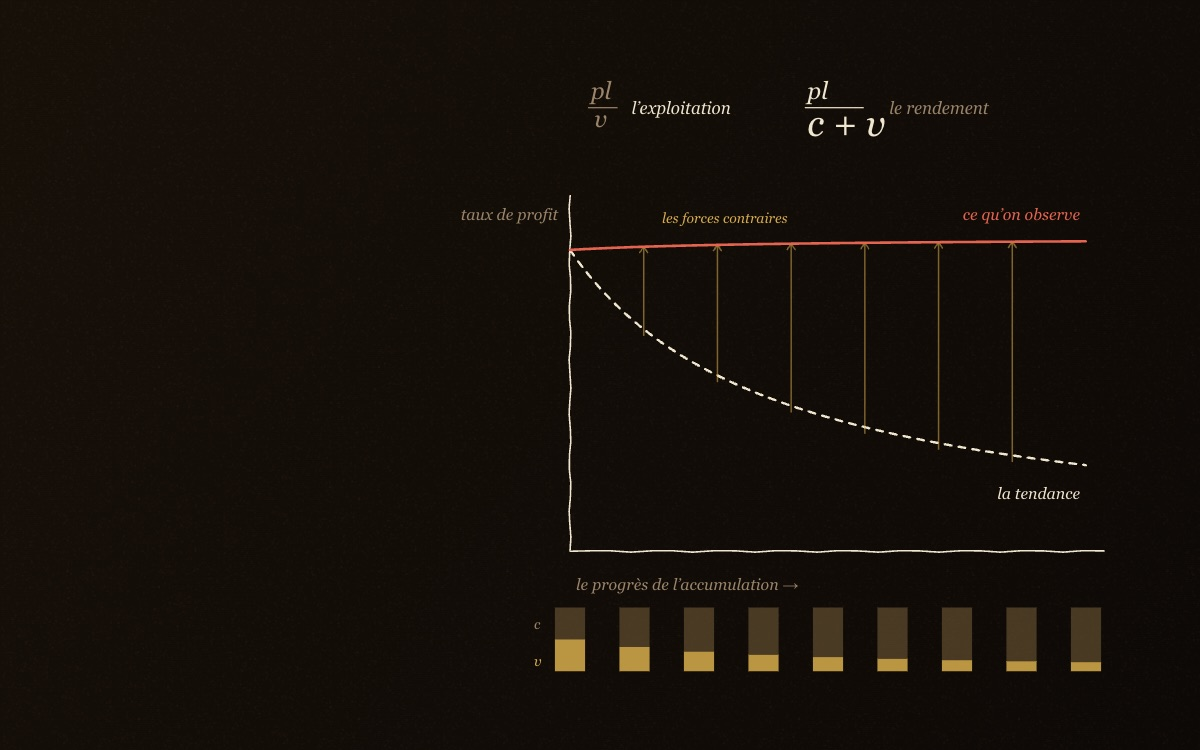
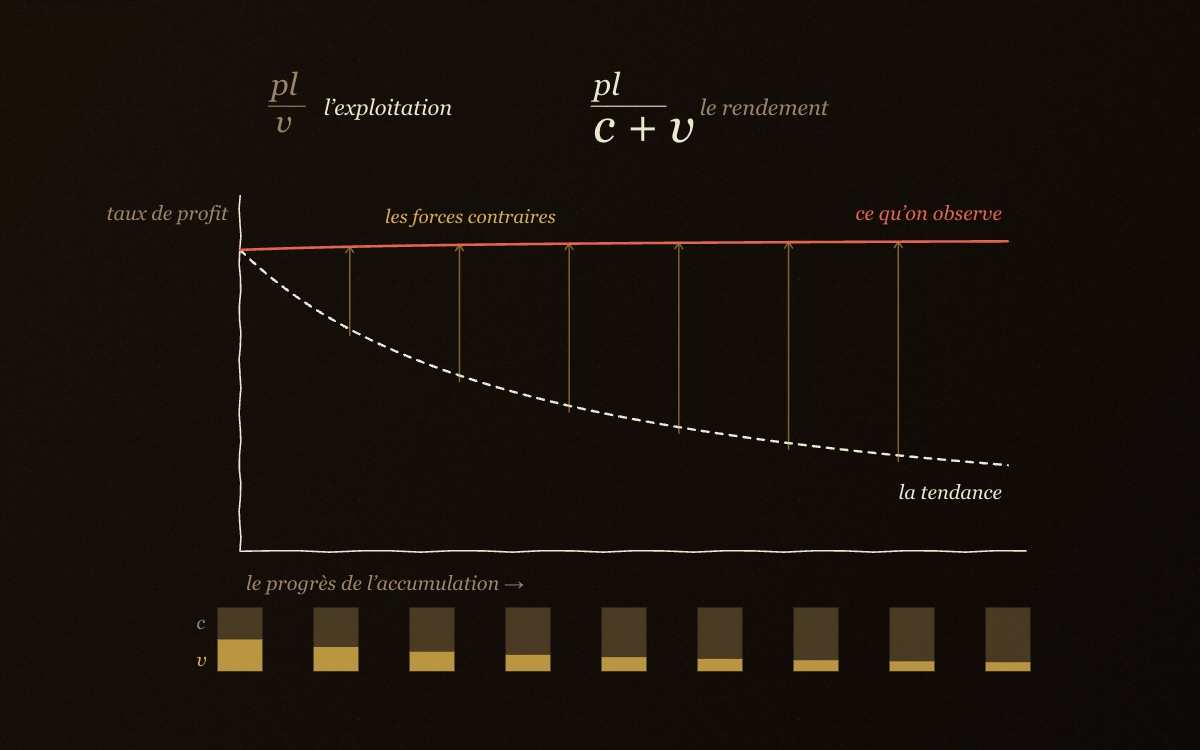
Glossaire : loi-tendancielle réécrite selon la charte, direction artistique « la machine de fer »

diff --git a/glossaire/mondes/loi-tendancielle/essai.html b/glossaire/mondes/loi-tendancielle/essai.html
@@ -1,52 +1,86 @@
-<!-- L'ESSAI — le corps de /glossaire/loi-tendancielle.
+<!-- L'ESSAI : le corps de /glossaire/loi-tendancielle.
+     Réécrit en octobre 2026 selon glossaire/mondes/CHARTE.md.
      ⚠ La loi est exposée au LIVRE III, que ce site NE SERT PAS : ses
-     citations ne seraient vérifiables nulle part, et la règle du dossier est
-     que toute citation mène au passage. Le Livre III est donc PARAPHRASÉ,
-     sans guillemets, avec le renvoi au chapitre. Les citations liées
-     (data-s="7" = Septième section de Roy, ch. XXIII-XXV) portent sur la
-     PRÉMISSE — la composition du capital et son mouvement —, qui est bien
-     dans le Livre I. -->
+     phrases ne seraient vérifiables nulle part, et toute citation liée doit
+     mener au passage. Le Livre III est donc PARAPHRASÉ et situé, jamais
+     cité entre guillemets. Les citations liées viennent toutes du Livre I :
+     data-s="3" = troisième section de Roy (ch. IX, le taux de la
+     plus-value) ; data-s="4" = quatrième section (ch. XV, la machine) ;
+     data-s="5" = cinquième section (ch. XVII, où Marx annonce le Livre III) ;
+     data-s="7" = septième section (ch. XXV, la composition du capital).
+     Chaque data-q est relevé dans le texte que la liseuse sert, au
+     caractère près (apostrophe typographique comprise). -->
 
 <section class="nt-sec" data-etape="enonce" id="enonce">
-<h2>Une baisse qui vient du progrès</h2>
-<p>La loi tendancielle de la baisse du taux de profit est la proposition la plus discutée de toute l'œuvre, et il faut commencer par dire exactement ce qu'elle énonce, parce que la plupart des objections qu'on lui oppose portent sur autre chose. Elle dit ceci&nbsp;: à mesure que la productivité s'élève, la part du capital investie en machines et en matières croît plus vite que celle qui paie le travail&nbsp;; or seul le travail vivant produit de la <a href="/glossaire/plus-value">plus-value</a>&nbsp;; si donc le taux d'exploitation demeure constant, le profit rapporté au capital total avancé décroît.</p>
-<p>L'énoncé a ceci de contre-intuitif qu'il fait de la baisse un effet du progrès, et non de la stagnation. Ce ne sont ni la concurrence, ni les salaires trop élevés, ni les mauvaises récoltes qui font tomber le taux&nbsp;: c'est le succès même de l'accumulation. Chaque perfectionnement qui permet à un ouvrier de mettre en œuvre plus de matière et plus de machines augmente la masse produite et diminue, relativement, la source d'où le profit provient. Marx tient cette conclusion pour le grand paradoxe de l'économie politique, et il lui reproche de l'avoir pressenti sans pouvoir l'expliquer, faute d'avoir distingué le taux de plus-value du taux de profit.</p>
-<p>Nous devons dire d'emblée ce que cette page ne fera pas. La loi est exposée au Livre&nbsp;III, dans les manuscrits que Marx a laissés inachevés et qu'Engels a publiés en 1894&nbsp;; ce site ne sert que le Livre&nbsp;I, dans la traduction de Roy. Nous ne citerons donc pas le Livre&nbsp;III entre guillemets, puisque nous ne pouvons pas conduire le lecteur au passage&nbsp;: nous le paraphraserons en le situant. Les citations liées qui suivent portent toutes sur la prémisse — le mouvement de la composition du capital —, laquelle est bien dans le Livre&nbsp;I.</p>
+<h2>Que dit au juste la loi tendancielle&nbsp;?</h2>
+<p class="nt-lead">Que le taux de profit, c'est-à-dire le profit rapporté à tout le capital avancé, tend à baisser à mesure que la productivité du travail s'élève. La baisse vient du succès même de l'accumulation.</p>
+<p>La loi tendancielle de la baisse du taux de profit est sans doute la proposition de Marx qu'on a le plus discutée, et beaucoup d'objections portent sur autre chose que ce qu'elle énonce. Il faut donc commencer par l'énoncé. À mesure que la productivité s'élève, la part du capital dépensée en machines et en matières grandit plus vite que la part qui paie les salaires. Or seul le travail vivant, celui des ouvriers employés, produit de la <a href="/glossaire/plus-value">plus-value</a>. Si le degré d'exploitation reste le même, la plus-value rapportée au capital total diminue&nbsp;: le taux de profit baisse.</p>
+<p>L'énoncé surprend parce qu'il fait de la baisse un effet du progrès. Ni la concurrence ni des salaires trop élevés n'y sont pour rien. Chaque perfectionnement qui permet à un ouvrier de mettre en œuvre plus de matière et plus de machines augmente la masse produite et réduit, en proportion, la source d'où vient le profit. Les économistes classiques avaient constaté que le taux de profit avait tendance à baisser. Adam Smith l'expliquait par la concurrence des capitaux, David Ricardo par la hausse du prix du blé, qui renchérit les salaires. Marx leur reproche de chercher la cause hors de l'accumulation, faute d'avoir distingué deux taux qu'on verra plus loin.</p>
+<p>Une précaution s'impose d'emblée. La loi est exposée au Livre&nbsp;III du <i>Capital</i>, troisième section, dans des manuscrits que Marx a laissés inachevés et qu'Engels a publiés en 1894. Ce site ne sert que le Livre&nbsp;I, dans la traduction de Roy. Le Livre&nbsp;III est donc résumé et situé, sans guillemets, puisqu'on ne pourrait pas conduire le lecteur au passage. Les citations qui suivent viennent toutes du Livre&nbsp;I, où se trouvent la prémisse de la loi et même son annonce.</p>
 </section>
 
 <section class="nt-sec" data-etape="premisse" id="premisse">
-<h2>La prémisse est au Livre I&nbsp;: la composition du capital</h2>
-<p>Tout repose sur une grandeur que le chapitre XXV introduit avec beaucoup de soin, et dont la définition mérite d'être lue lentement. Le capital se laisse considérer sous deux rapports&nbsp;: du côté de la valeur, il se divise en une partie constante — les moyens de production — et une partie variable — ce qui paie la force de travail&nbsp;; du côté de la technique, il se divise en une masse de moyens de production et une quantité de travail pour les mettre en œuvre. Marx noue les deux&nbsp;:</p>
+<h2>Sur quoi la loi repose-t-elle dans le Livre&nbsp;I&nbsp;?</h2>
+<p class="nt-lead">Sur le mouvement de la composition du capital. Avec l'accumulation, la part dépensée en moyens de production croît plus vite que la part qui paie la force de travail.</p>
+<p>Deux mots d'abord. Le capital constant est la partie du capital dépensée en moyens de production&nbsp;: bâtiments, machines, matières. Sa valeur passe dans le produit sans grandir. Le capital variable est la partie qui achète la force de travail, et c'est la seule qui rapporte plus qu'elle ne coûte. Le chapitre XV montre ce que la machine fait à ce partage&nbsp;: elle <q data-s="4" data-q="Elle transforme en machines, en élément constant qui ne rend point de plus-value, une partie du capital qui était variable auparavant">transforme en machines, en élément constant qui ne rend point de plus-value, une partie du capital qui était variable auparavant</q>. Le rapport entre les deux parties, Marx le nomme au chapitre XXV&nbsp;:</p>
 <blockquote data-s="7" data-q="nous appellerons composition organique du capital sa composition-valeur, en tant qu’elle dépend de sa composition technique"><p>[…] nous appellerons composition organique du capital sa composition-valeur, en tant qu’elle dépend de sa composition technique, et que, par conséquent, les changements survenus dans l’une reflètent les changements survenus dans l’autre.</p></blockquote>
-<p>Ce qui importe pour notre loi, c'est le sens dans lequel cette composition se déplace. Marx en fait <q data-s="7" data-q="la composition du capital et les changements qu’elle subit dans le progrès de l’accumulation">la composition du capital et les changements qu'elle subit dans le progrès de l'accumulation</q> la donnée décisive de tout le chapitre, et il établit que l'accumulation, en développant la productivité, fait croître la partie constante plus vite que la variable — <q data-s="7" data-q="le décroissement de la partie variable du capital par rapport à sa partie constante">le décroissement de la partie variable du capital par rapport à sa partie constante</q>.</p>
-<p>Une précision est ici indispensable, et son absence est la source de la moitié des malentendus&nbsp;: la partie variable ne diminue pas, elle diminue <i>relativement</i>. <q data-s="7" data-q="le progrès de l’accumulation, en faisant décroître la grandeur relative du capital variable, n’en exclut point l’accroissement absolu">Le progrès de l'accumulation, en faisant décroître la grandeur relative du capital variable, n'en exclut point l'accroissement absolu</q>&nbsp;: le nombre d'ouvriers employés peut monter, et monte en fait, pendant que leur part dans le capital total baisse. <q data-s="7" data-q="Il augmente avec le capital social dont il fait partie, mais il augmente en proportion décroissante">Il augmente avec le capital social dont il fait partie, mais il augmente en proportion décroissante</q>. La loi du Livre&nbsp;III ne fait qu'ajouter une division à ce mouvement-là.</p>
+<p>Ce qui compte pour la loi, c'est le sens du mouvement. Le chapitre XXV fait de <q data-s="7" data-q="la composition du capital et les changements qu’elle subit dans le progrès de l’accumulation">la composition du capital et les changements qu’elle subit dans le progrès de l’accumulation</q> sa donnée principale, et il établit que l'accumulation, en développant la productivité, entraîne <q data-s="7" data-q="le décroissement de la partie variable du capital par rapport à sa partie constante">le décroissement de la partie variable du capital par rapport à sa partie constante</q>. La page sur la <a href="/glossaire/composition-organique">composition organique</a> suit ce mouvement en détail.</p>
+<p>Le mot «&nbsp;par rapport&nbsp;» est à prendre au sérieux. La partie variable diminue relativement, pas forcément en quantité&nbsp;: <q data-s="7" data-q="le progrès de l’accumulation, en faisant décroître la grandeur relative du capital variable, n’en exclut point l’accroissement absolu">le progrès de l’accumulation, en faisant décroître la grandeur relative du capital variable, n’en exclut point l’accroissement absolu</q>. Le nombre d'ouvriers employés peut monter pendant que leur part dans le capital total baisse. Marx le dit encore plus simplement&nbsp;: <q data-s="7" data-q="Il augmente avec le capital social dont il fait partie, mais il augmente en proportion décroissante">il augmente avec le capital social dont il fait partie, mais il augmente en proportion décroissante</q>. La loi du Livre&nbsp;III ne fait qu'ajouter une division à ce mouvement.</p>
 </section>
 
 <section class="nt-sec" data-etape="distinction" id="distinction">
-<h2>La distinction qui fait le concept&nbsp;: deux taux, et non un</h2>
-<p>Toute la loi tient dans l'écart entre deux rapports que le langage courant confond, et qui n'ont ni le même dénominateur ni le même sens. Le <b>taux de plus-value</b> rapporte la plus-value au seul capital variable&nbsp;: <i>pl/v</i>. Il mesure l'exploitation, c'est-à-dire la manière dont la journée se partage, et il est la grandeur du Livre&nbsp;I. Le <b>taux de profit</b> rapporte la même plus-value au capital total avancé, constant compris&nbsp;: <i>pl/(c+v)</i>. Il mesure le rendement d'une avance, et c'est la grandeur sous laquelle le capitaliste voit son affaire.</p>
-<p>Le second est toujours inférieur au premier, puisqu'il a le même numérateur et un dénominateur plus grand. Mais le point n'est pas là&nbsp;: il est que les deux peuvent varier <i>en sens contraire</i>. Si <i>c</i> croît assez vite, <i>pl/(c+v)</i> baisse alors même que <i>pl/v</i> monte — l'exploitation s'intensifie et la rentabilité décline. C'est cette possibilité qui fait le concept, et c'est elle que l'économie classique ne pouvait pas formuler&nbsp;: n'ayant pas séparé les deux taux, elle attribuait la baisse observée à la concurrence ou à la pression des salaires, c'est-à-dire à des causes extérieures au mouvement de l'accumulation.</p>
-<p>On mesure alors ce que la distinction change dans la lecture du capitalisme. Le taux de profit n'est pas un thermomètre de l'exploitation&nbsp;: on ne peut rien conclure du second sur la première. Une baisse du taux de profit ne dit pas que les travailleurs sont mieux traités, et une hausse ne dit pas qu'ils le sont moins.</p>
+<h2>Pourquoi faut-il distinguer deux taux&nbsp;?</h2>
+<p class="nt-lead">Parce que le taux de plus-value mesure l'exploitation, et le taux de profit le rendement du capital avancé. Ils ont le même numérateur, pas le même dénominateur, et ils peuvent varier en sens contraire.</p>
+<p>Le taux de plus-value rapporte la plus-value au seul capital variable&nbsp;: <i>pl/v</i>. Il dit comment se partage la journée de travail entre le temps où l'ouvrier reproduit son salaire et le temps où il travaille gratuitement. Au chapitre IX, Marx le définit ainsi&nbsp;: <q data-s="3" data-q="Le taux de la plus-value est donc l’expression exacte du degré d’exploitation de la force de travail par le capital ou du travailleur par le capitaliste">le taux de la plus-value est donc l’expression exacte du degré d’exploitation de la force de travail par le capital ou du travailleur par le capitaliste</q>. Le taux de profit rapporte la même plus-value au capital total, constant compris&nbsp;: <i>pl/(c+v)</i>. C'est la grandeur sous laquelle le capitaliste voit son affaire, puisqu'il compte tout ce qu'il a avancé.</p>
+<p>Le Livre&nbsp;I pose déjà la distinction. Au chapitre XVII, Marx rappelle que <q data-s="5" data-q="le taux du profit est la proportion de la plus-value avec le total du capital avancé, tandis que le taux de la plus-value est la proportion de la plus-value avec la partie variable du capital avancé">le taux du profit est la proportion de la plus-value avec le total du capital avancé, tandis que le taux de la plus-value est la proportion de la plus-value avec la partie variable du capital avancé</q>. Il reproche à Ricardo de les avoir mêlés&nbsp;: <q data-s="5" data-q="Il confond le taux de la plus-value avec le taux du profit, et traite, par conséquent, celui-ci comme s’il exprimait directement le degré d’exploitation du travail">il confond le taux de la plus-value avec le taux du profit, et traite, par conséquent, celui-ci comme s’il exprimait directement le degré d’exploitation du travail</q>. Et il annonce la suite&nbsp;:</p>
+<blockquote data-s="5" data-q="Je démontrerai plus tard, dans le troisième livre, que donné le taux de la plus-value, le taux du profit peut varier indéfiniment"><p>Je démontrerai plus tard, dans le troisième livre, que donné le taux de la plus-value, le taux du profit peut varier indéfiniment, et que donné le taux du profit, il peut correspondre aux taux de plus-value les plus divers.</p></blockquote>
+<div class="nt-ex">
+<p class="nt-ex-t">Un exemple</p>
+<p>Le chiffre est de Marx, au chapitre XVI. John Stuart Mill avait écrit que si les travailleurs produisent vingt pour cent au-dessus de leurs salaires, les profits seront de vingt pour cent. Marx refait le compte. Un entrepreneur avance 500 livres sterling&nbsp;: 400 en moyens de production, 100 en salaires. Le taux de plus-value est de 20&nbsp;pour cent, si bien que la plus-value se monte à 20 livres. Rapportées aux 100 livres de salaires, elles font 20&nbsp;pour cent&nbsp;; rapportées aux 500 livres avancées, elles ne font que 4&nbsp;pour cent. D'où la correction&nbsp;: <q data-s="5" data-q="Ils seront toujours plus petits, parce que les profits sont calculés sur la somme totale du capital avancé">ils seront toujours plus petits, parce que les profits sont calculés sur la somme totale du capital avancé</q>.</p>
+<p>Supposons maintenant que le même entrepreneur double son équipement, 900 livres en moyens de production pour les mêmes 100 livres de salaires, et qu'il exploite ses ouvriers un peu plus durement&nbsp;: la plus-value passe à 30 livres. Le taux de plus-value monte de 20 à 30&nbsp;pour cent. Le taux de profit, lui, descend de 4 à 3&nbsp;pour cent. Ces derniers chiffres sont inventés pour le calcul&nbsp;; ils montrent que l'exploitation peut s'aggraver pendant que la rentabilité décline.</p>
+</div>
+<p>Le taux de profit ne renseigne donc pas sur l'exploitation. Une baisse du taux de profit ne dit pas que les ouvriers sont mieux traités, une hausse ne dit pas qu'ils le sont moins. C'est cette possibilité, deux taux qui divergent, que l'économie classique ne pouvait pas formuler, et qui rend la loi pensable.</p>
 </section>
 
 <section class="nt-sec" data-etape="mecanisme" id="mecanisme">
-<h2>Le mécanisme&nbsp;: un numérateur borné, un dénominateur qui ne l'est pas</h2>
-<p>Le raisonnement du Livre&nbsp;III, section&nbsp;III, se laisse résumer en une dissymétrie. Le numérateur du taux de profit — la plus-value — a une borne&nbsp;: il ne peut jamais dépasser la journée de travail vivant, laquelle a vingt-quatre heures et, en pratique, beaucoup moins. Le dénominateur, lui, n'a pas de borne de cette espèce&nbsp;: la masse des moyens de production qu'un même ouvrier met en mouvement peut croître indéfiniment avec la technique. Un rapport dont le haut est borné et le bas ne l'est pas tend vers le bas.</p>
-<p>Marx en donne l'illustration arithmétique, qu'on peut refaire de tête. Soit un capital où <i>c</i> et <i>v</i> sont égaux et le taux de plus-value de cent pour cent&nbsp;: le taux de profit est de cinquante pour cent. Que la composition passe à quatre contre un, le taux d'exploitation restant le même, et il tombe à vingt pour cent&nbsp;; à neuf contre un, à dix pour cent. Rien n'a changé dans le rapport entre le capitaliste et l'ouvrier — la journée se partage toujours en deux moitiés égales —, et pourtant le rendement de l'avance a été divisé par cinq.</p>
-<p>Il faut voir que ce mouvement est le même que celui du Livre&nbsp;I, lu d'un autre point de vue. La machine, qui apparaissait au chapitre XV comme le moyen de comprimer le travail nécessaire, apparaît ici comme ce qui gonfle le dénominateur&nbsp;; le capital, en poursuivant la plus-value relative, produit du même geste la condition d'une baisse de son propre taux. La loi n'est donc pas un accident qui viendrait contrarier l'accumulation du dehors&nbsp;: elle est la forme sous laquelle l'accumulation se contrarie elle-même.</p>
+<h2>Comment le progrès fait-il baisser le taux de profit&nbsp;?</h2>
+<p class="nt-lead">Par une dissymétrie&nbsp;: la plus-value ne peut pas dépasser le travail des ouvriers employés, alors que la masse de moyens de production qu'ils mettent en œuvre peut croître sans limite. Un rapport dont le haut est borné et le bas ne l'est pas tend vers le bas.</p>
+<p>Le numérateur du taux de profit, la plus-value, a une borne. Elle ne peut jamais dépasser le travail que fournissent les ouvriers employés, et chacun d'eux ne travaille qu'un nombre limité d'heures par jour. Le chapitre XV en donne l'image la plus nette&nbsp;: <q data-s="4" data-q="Il est impossible par exemple d’obtenir de deux ouvriers autant de plus-value que de vingt-quatre">il est impossible par exemple d’obtenir de deux ouvriers autant de plus-value que de vingt-quatre</q>. La journée étant de douze heures, deux ouvriers ne fournissent en tout que vingt-quatre heures de travail, quand vingt-quatre ouvriers fournissent vingt-quatre heures de surtravail avec une seule heure chacun.</p>
+<p>Le dénominateur n'a pas de borne de cette espèce. La masse des machines et des matières qu'un même ouvrier met en mouvement croît avec la technique, et rien n'en fixe le terme. Marx voit dès le Livre&nbsp;I la contradiction que cela loge dans la machine même&nbsp;: <q data-s="4" data-q="L’emploi des machines dans le but d’accroître la plus-value recèle donc une contradiction">l’emploi des machines dans le but d’accroître la plus-value recèle donc une contradiction</q>, puisque des deux facteurs de la plus-value <q data-s="4" data-q="il n’augmente l’un, le taux de la plus-value, qu’en diminuant l’autre, le nombre des ouvriers">il n’augmente l’un, le taux de la plus-value, qu’en diminuant l’autre, le nombre des ouvriers</q>. Au chapitre XV, cette contradiction pousse le capitaliste à allonger la journée. Au Livre&nbsp;III, la même contradiction devient la loi.</p>
+<div class="nt-ex">
+<p class="nt-ex-t">Le calcul</p>
+<p>Prenons un capital où le capital constant et le capital variable sont égaux, 100 et 100, avec un taux de plus-value de 100&nbsp;pour cent&nbsp;: la plus-value vaut 100 et le taux de profit 50&nbsp;pour cent (100 sur 200). Que la composition passe à 400 contre 100, le taux de plus-value restant le même, et le taux de profit tombe à 20&nbsp;pour cent (100 sur 500). À 900 contre 100, il tombe à 10&nbsp;pour cent.</p>
+<p>Rien n'a changé dans le partage de la journée&nbsp;: l'ouvrier travaille toujours une moitié pour lui, une moitié pour le capitaliste. Le rendement de l'avance a pourtant été divisé par cinq. Les chiffres sont choisis pour le calcul&nbsp;; le chapitre XIII du Livre&nbsp;III commence par un calcul du même genre.</p>
+</div>
+<p>On voit que ce mouvement est celui du Livre&nbsp;I, lu d'un autre côté. La machine apparaissait au chapitre XV comme le moyen de réduire le temps où l'ouvrier reproduit son salaire. Elle apparaît ici comme ce qui gonfle le dénominateur. En poursuivant la plus-value relative, le capital crée du même geste la condition d'une baisse de son propre taux. La loi décrit ainsi une accumulation qui se gêne elle-même.</p>
 </section>
 
 <section class="nt-sec" data-etape="contrariee" id="contrariee">
-<h2>Pourquoi «&nbsp;tendancielle&nbsp;»&nbsp;: les forces qui la contrarient</h2>
-<p>Le mot compte, et Marx lui consacre un chapitre entier, immédiatement après celui qui expose la loi. Une tendance n'est pas une trajectoire&nbsp;: c'est une pression constante, qui se manifeste seulement dans la mesure où rien ne la compense. Or beaucoup la compense, et Marx énumère&nbsp;: l'élévation du taux d'exploitation, par l'allongement de la journée ou par l'intensification&nbsp;; l'abaissement des salaires au-dessous de la valeur de la force de travail&nbsp;; le renchérissement moindre, voire la baisse, du prix des éléments du capital constant, puisque la même productivité qui gonfle la masse des machines en abaisse la valeur unitaire&nbsp;; la surpopulation relative, qui maintient des branches à faible composition&nbsp;; le commerce extérieur&nbsp;; l'accroissement du capital par actions.</p>
-<p>La conséquence, pour qui veut lire les chiffres, est considérable et rarement tirée. Une hausse suffisante du taux d'exploitation masque la baisse pendant très longtemps — assez pour qu'une série statistique de quelques décennies ne la montre pas, sans que cela réfute quoi que ce soit. Ce qui est affirmé n'est pas que le taux de profit baisse tous les ans, mais qu'il existe une pression dans ce sens, et que les moyens de la contenir sont eux-mêmes des mécanismes déterminés, qui ont leurs propres limites.</p>
-<p>Nous tenons pour cette raison que l'expression « loi tendancielle » doit se lire tout entière, l'adjectif compris. Une loi qui n'énonce qu'une tendance dit deux choses à la fois&nbsp;: qu'il y a une cause qui agit toujours, et qu'il y a des causes qui l'empêchent de paraître. Confondre la première avec une prédiction, ou les secondes avec une réfutation, c'est manquer les deux.</p>
+<h2>Pourquoi la loi est-elle dite «&nbsp;tendancielle&nbsp;»&nbsp;?</h2>
+<p class="nt-lead">Parce que des forces contraires la freinent, et que Marx leur consacre un chapitre entier. Une tendance est une pression constante, qui ne se voit que dans la mesure où rien ne la compense.</p>
+<p>Au Livre&nbsp;III, le chapitre XIV suit immédiatement l'exposé de la loi et énumère ce qui la contrarie. Le degré d'exploitation peut s'élever, par l'allongement de la journée ou par l'intensité du travail. Les salaires peuvent tomber au-dessous de la valeur de la force de travail. Les éléments du capital constant peuvent devenir meilleur marché. La surpopulation relative maintient des branches où l'on emploie beaucoup de bras pour peu de machines. Le commerce extérieur fournit des matières et des subsistances à bas prix. Enfin de grands capitaux placés en actions se contentent d'un intérêt et n'entrent pas dans la formation du taux moyen.</p>
+<p>La troisième de ces forces se lit déjà dans le Livre&nbsp;I. La productivité qui grossit la masse des machines en abaisse aussi la valeur, puisqu'il faut moins de travail pour les construire&nbsp;: <q data-s="4" data-q="la production de machines au moyen de machines diminue évidemment leur valeur">la production de machines au moyen de machines diminue évidemment leur valeur</q>. Et une machine puissante répartit sa propre valeur sur une masse énorme de produits. Du marteau à vapeur de Nasmyth, Marx écrit que son usure et son charbon se répartissent sur tant de fer forgé que <q data-s="4" data-q="chaque quintal de fer n’absorbe qu’une portion minime de valeur">chaque quintal de fer n’absorbe qu’une portion minime de valeur</q>. Le capital constant grossit donc en masse bien plus qu'en valeur, et le dénominateur enfle moins vite que la technique.</p>
+<div data-planche="marteau"></div>
+<p>La conséquence pour qui lit les statistiques est rarement tirée. Une hausse suffisante du taux d'exploitation peut masquer la baisse pendant longtemps, assez pour qu'une série de quelques décennies ne la montre pas, sans que cela réfute la loi. Celle-ci n'affirme pas que le taux de profit baisse chaque année. Elle affirme qu'une pression s'exerce dans ce sens, et que les moyens de la contenir sont des mécanismes déterminés, qui ont leurs propres limites&nbsp;: la journée ne s'allonge pas indéfiniment, les salaires ne descendent pas au-dessous de tout.</p>
+<p>Nous tenons donc que l'expression doit se lire en entier, adjectif compris. Une loi qui énonce une tendance dit deux choses à la fois&nbsp;: une cause agit toujours, et d'autres causes peuvent l'empêcher de paraître. Prendre la première pour une prédiction, ou les secondes pour une réfutation, revient à manquer l'une et l'autre.</p>
 </section>
 
 <section class="nt-sec" data-etape="lectures" id="lectures">
-<h2>Lectures, et contresens</h2>
-<p>Le premier contresens fait de la loi une prophétie d'effondrement&nbsp;: le taux tomberait vers zéro et le capitalisme s'arrêterait de lui-même. Rien dans le texte ne l'autorise. Marx écrit que la baisse du taux s'accompagne d'un accroissement de la masse du profit, ce qui est arithmétiquement banal — un taux plus faible sur un capital beaucoup plus grand peut donner davantage — et il en tire non un terme, mais une contradiction&nbsp;: le même mouvement rend le capital plus productif et son taux plus fragile, ce qui alimente les crises sans les rendre finales.</p>
-<p>Le deuxième contresens est symétrique&nbsp;: on croit réfuter la loi en montrant que le taux de profit n'a pas baissé sur telle période. C'est confondre la tendance avec son résultat net, alors que le chapitre suivant est précisément consacré à expliquer pourquoi le résultat net peut être nul ou inverse. Le désaccord sérieux ne porte pas là.</p>
-<p>Il porte, lui, sur la cohérence même du raisonnement, et il faut le signaler honnêtement plutôt que de l'escamoter. Une objection célèbre — le théorème d'Okishio, formulé en 1961 — établit qu'un capitaliste n'adopte une technique nouvelle que si elle abaisse ses coûts au prix courant, et qu'une technique ainsi choisie ne peut pas, à salaire réel constant, faire baisser le taux de profit général. La discussion qui a suivi porte sur les hypothèses du théorème, en particulier sur le traitement du capital fixe et sur la constance du salaire réel. Nous ne la trancherons pas ici&nbsp;: nous la signalons parce qu'une page qui présenterait la loi comme acquise donnerait une idée fausse de l'état de la question.</p>
-<p>Reste un dernier point, plus simple et souvent négligé. La loi ne dit rien du taux de profit d'une entreprise particulière, qui dépend de mille choses&nbsp;; elle porte sur le taux général, c'est-à-dire sur un rapport social. C'est pourquoi elle appartient au Livre&nbsp;III, où le capital est enfin considéré dans son ensemble, et non au Livre&nbsp;I, où il est considéré dans sa production. On ne peut pas la vérifier dans un bilan, pas plus qu'on ne peut lire la <a href="/glossaire/plus-value">plus-value</a> sur une fiche de paie.</p>
+<h2>Comment lire la loi, et quels contresens éviter&nbsp;?</h2>
+<p class="nt-lead">La loi porte sur le taux général de profit et décrit une contradiction de l'accumulation. Elle reste discutée, et deux contresens symétriques en faussent la lecture.</p>
+<p>Elle ne dit rien du taux de profit d'une entreprise particulière, qui dépend de mille circonstances&nbsp;; elle porte sur le taux général, c'est-à-dire sur le rapport entre toute la plus-value d'une société et tout le capital qu'elle a avancé. C'est pourquoi elle appartient au Livre&nbsp;III, où le capital est considéré dans son ensemble&nbsp;; le Livre&nbsp;I l'étudie dans la production. Elle ne se vérifie pas dans un bilan, pas plus qu'on ne lit la plus-value sur une fiche de paie.</p>
+<p>Au Livre&nbsp;III, Marx ajoute que la baisse du taux s'accompagne d'une hausse de la masse du profit. L'arithmétique est simple&nbsp;: un taux plus faible sur un capital beaucoup plus grand peut rapporter davantage. Il en tire une contradiction plutôt qu'un terme&nbsp;: le même mouvement rend le capital plus productif et son taux plus fragile, et cette contradiction nourrit les crises, qui ne sont pas pour autant finales.</p>
+<p>La discussion la plus sérieuse porte sur la cohérence du raisonnement, et il faut la signaler. En 1961, l'économiste japonais Nobuo Okishio a formulé un théorème selon lequel un capitaliste n'adopte une technique nouvelle que si elle abaisse ses coûts aux prix du moment, et une technique choisie de cette façon ne peut pas, à salaire réel constant, faire baisser le taux de profit général. La controverse qui a suivi porte sur les hypothèses du théorème, en particulier le traitement du capital fixe et la constance du salaire réel. Nous ne la trancherons pas ici&nbsp;: une page qui présenterait la loi comme acquise donnerait une idée fausse de l'état de la question.</p>
+<div class="nt-cs">
+<p><span class="nt-cs-k">On lit souvent</span> La loi annoncerait l'effondrement du capitalisme&nbsp;: le taux de profit tomberait vers zéro et le système s'arrêterait de lui-même.</p>
+<p><span class="nt-cs-k">Ce que dit le texte</span> Rien de tel. Marx décrit une baisse du taux qui va avec une hausse de la masse du profit, et il en tire des crises périodiques, pas une fin programmée. La loi décrit une contradiction de l'accumulation&nbsp;; elle ne fixe aucune date.</p>
+</div>
+<div class="nt-cs">
+<p><span class="nt-cs-k">On lit souvent</span> Il suffirait de montrer que le taux de profit n'a pas baissé sur une période pour réfuter la loi.</p>
+<p><span class="nt-cs-k">Ce que dit le texte</span> Le chapitre XIV du Livre&nbsp;III est consacré aux forces qui peuvent rendre le résultat nul ou inverse. Une série qui ne montre pas de baisse confond la tendance avec son résultat net&nbsp;; le désaccord sérieux porte ailleurs.</p>
+</div>
+<div class="nt-cs">
+<p><span class="nt-cs-k">On lit souvent</span> Un taux de profit en baisse prouverait que les ouvriers sont moins exploités, ou que leurs salaires pèsent trop.</p>
+<p><span class="nt-cs-k">Ce que dit le texte</span> Le Livre&nbsp;I sépare déjà les deux taux&nbsp;: le profit est calculé sur tout le capital avancé, l'exploitation sur la seule part qui paie les salaires. Le premier peut baisser pendant que la seconde s'aggrave, et c'est même le cas que la loi décrit.</p>
+</div>
 </section>

diff --git a/glossaire/mondes/loi-tendancielle/monde.js b/glossaire/mondes/loi-tendancielle/monde.js
@@ -63,7 +63,15 @@ window.LM_MONDE = function (canvas) {
     /* LA PLANCHE VIT DANS LA MOITIÉ DROITE : la colonne de texte occupe les
        quarante-trois premiers pour cent de la largeur, et une figure dont la
        moitié passe sous le texte ne s'explique pas toute seule. */
-    var X0 = cw * 0.475, X1 = cw * 0.905, Y0 = ch * 0.285, Y1 = ch * 0.735;
+    /* Depuis octobre 2026, la planche est une FIGURE en bas de page que rien
+       ne recouvre : le décalage à droite ne joue plus que sur un canevas d'au
+       moins 1100 px hors de la figure. Ailleurs la planche est centrée, et ses
+       écritures grossissent d'un tiers (le canevas est plus petit), sans
+       descendre sous dix pixels sur téléphone. */
+    var large = cw >= 1100 && !(canvas.closest && canvas.closest('.nt-fig'));
+    var X0 = large ? cw * 0.475 : cw < 600 ? cw * 0.27 : cw * 0.2, X1 = large ? cw * 0.905 : cw * 0.84;
+    var Y0 = ch * 0.285, Y1 = ch * 0.735;
+    var FZ = large ? 1 : 1.3;
     var LW = X1 - X0, LH = Y1 - Y0;
     function px(t) { return X0 + t * LW; }
     function py(v) { return Y1 - (v / YMAX) * LH; }
@@ -92,7 +100,7 @@ window.LM_MONDE = function (canvas) {
     trait(X0, Y1, X1 + 18, Y1, axes, ENCRE, 1.6);
     trait(X0, Y1, X0, Y0 - 18, axes, ENCRE, 1.6);
     if (axes > 0.7) {
-      ctx.fillStyle = SOURD; ctx.font = 'italic ' + Math.round(ch * 0.021) + 'px Georgia, serif';
+      ctx.fillStyle = SOURD; ctx.font = 'italic ' + Math.max(Math.round(ch * 0.021 * FZ), 10) + 'px Georgia, serif';
       ctx.textAlign = 'right'; ctx.fillText('taux de profit', X0 - 12, Y0 + 6);
       ctx.textAlign = 'left'; ctx.fillText('le progrès de l’accumulation →', X0 + 6, Y1 + ch * 0.052);
     }
@@ -110,7 +118,7 @@ window.LM_MONDE = function (canvas) {
         ctx.fillRect(x, by + h * (1 - part), bw, h * part); ctx.globalAlpha = 1;
       }
       if (barres > 0.85) {
-        ctx.fillStyle = SOURD; ctx.font = 'italic ' + Math.round(ch * 0.019) + 'px Georgia, serif'; ctx.textAlign = 'left';
+        ctx.fillStyle = SOURD; ctx.font = 'italic ' + Math.max(Math.round(ch * 0.019 * FZ), 10) + 'px Georgia, serif'; ctx.textAlign = 'left';
         ctx.fillText('c', px(0) - bw / 2 - ch * 0.028, by + bh * 0.34);
         ctx.fillStyle = OR; ctx.fillText('v', px(0) - bw / 2 - ch * 0.028, by + bh * 0.92);
       }
@@ -120,7 +128,7 @@ window.LM_MONDE = function (canvas) {
        celui du taux de profit ENFLE à mesure que la composition s'élève */
     if (form > 0.01) {
       ctx.globalAlpha = form; ctx.textAlign = 'left';
-      var fx = X0 + LW * 0.04, fy = ch * 0.15, s0 = ch * 0.032;
+      var fx = X0 + LW * 0.04, fy = ch * 0.15, s0 = Math.max(ch * 0.032 * FZ, 14);
       ctx.fillStyle = SOURD; ctx.font = 'italic ' + Math.round(s0) + 'px Georgia, serif';
       ctx.fillText('pl', fx, fy - s0 * 0.55);
       ctx.strokeStyle = SOURD; ctx.lineWidth = 1.2;
@@ -157,7 +165,7 @@ window.LM_MONDE = function (canvas) {
     }
     courbe(pTend, tend, ENCRE, 2.4, final > 0.5);
     if (tend > 0.9) {
-      ctx.fillStyle = ENCRE; ctx.font = 'italic ' + Math.round(ch * 0.021) + 'px Georgia, serif'; ctx.textAlign = 'right';
+      ctx.fillStyle = ENCRE; ctx.font = 'italic ' + Math.max(Math.round(ch * 0.021 * FZ), 10) + 'px Georgia, serif'; ctx.textAlign = 'right';
       ctx.fillText('la tendance', px(1) - 6, py(pTend(1)) + ch * 0.045);
     }
 
@@ -173,7 +181,7 @@ window.LM_MONDE = function (canvas) {
         ctx.beginPath(); ctx.moveTo(X - 4, yy + 6); ctx.lineTo(X, yy); ctx.lineTo(X + 4, yy + 6); ctx.stroke();
       }
       if (forces > 0.8) {
-        ctx.fillStyle = OR; ctx.font = 'italic ' + Math.round(ch * 0.019) + 'px Georgia, serif'; ctx.textAlign = 'center';
+        ctx.fillStyle = OR; ctx.font = 'italic ' + Math.max(Math.round(ch * 0.019 * FZ), 10) + 'px Georgia, serif'; ctx.textAlign = 'center';
         ctx.fillText('les forces contraires', px(0.30), py(0.545));
       }
     }
@@ -181,7 +189,7 @@ window.LM_MONDE = function (canvas) {
     /* ce qu'on observe : presque plat, et pourtant la tendance est là */
     courbe(pObs, obs, ROUGE, 2.6, false);
     if (obs > 0.9) {
-      ctx.fillStyle = ROUGE; ctx.font = 'italic ' + Math.round(ch * 0.021) + 'px Georgia, serif'; ctx.textAlign = 'right';
+      ctx.fillStyle = ROUGE; ctx.font = 'italic ' + Math.max(Math.round(ch * 0.021 * FZ), 10) + 'px Georgia, serif'; ctx.textAlign = 'right';
       ctx.fillText('ce qu’on observe', px(1) - 6, py(pObs(1)) - ch * 0.028);
     }
   }
